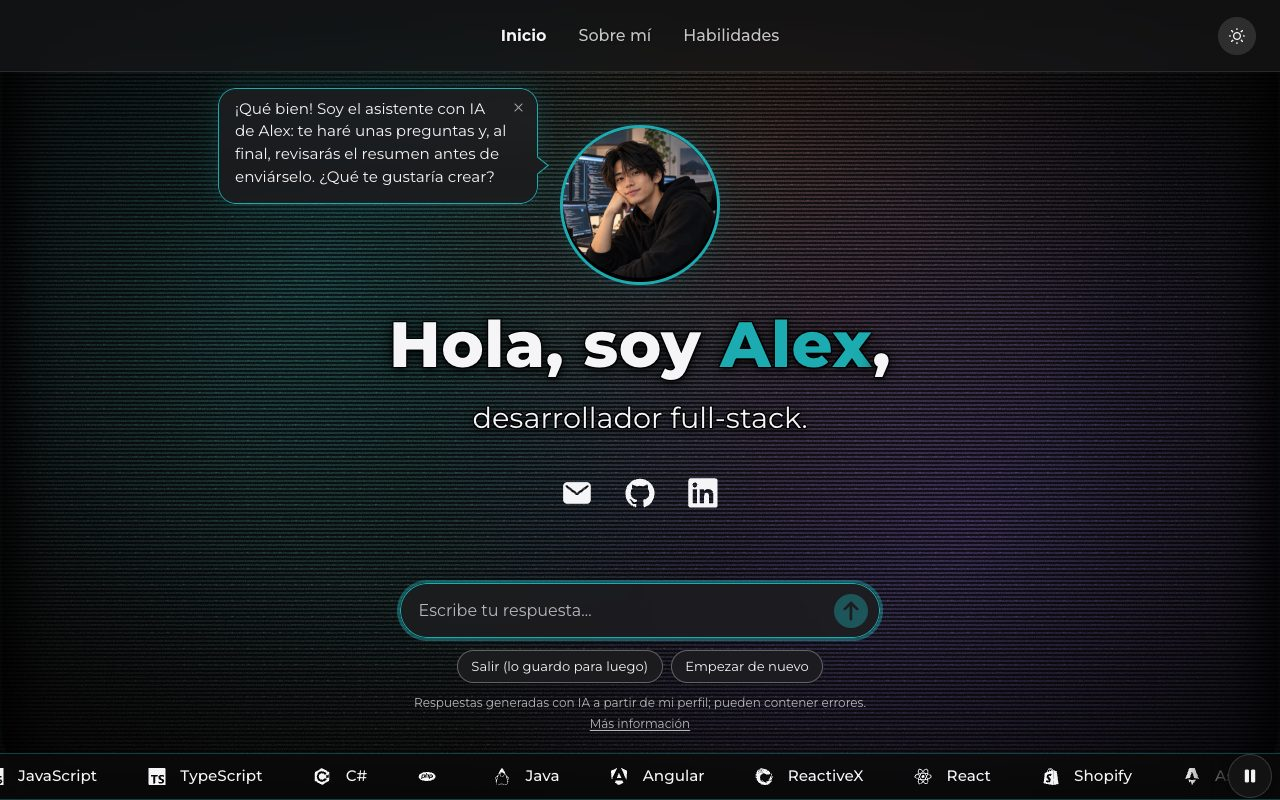
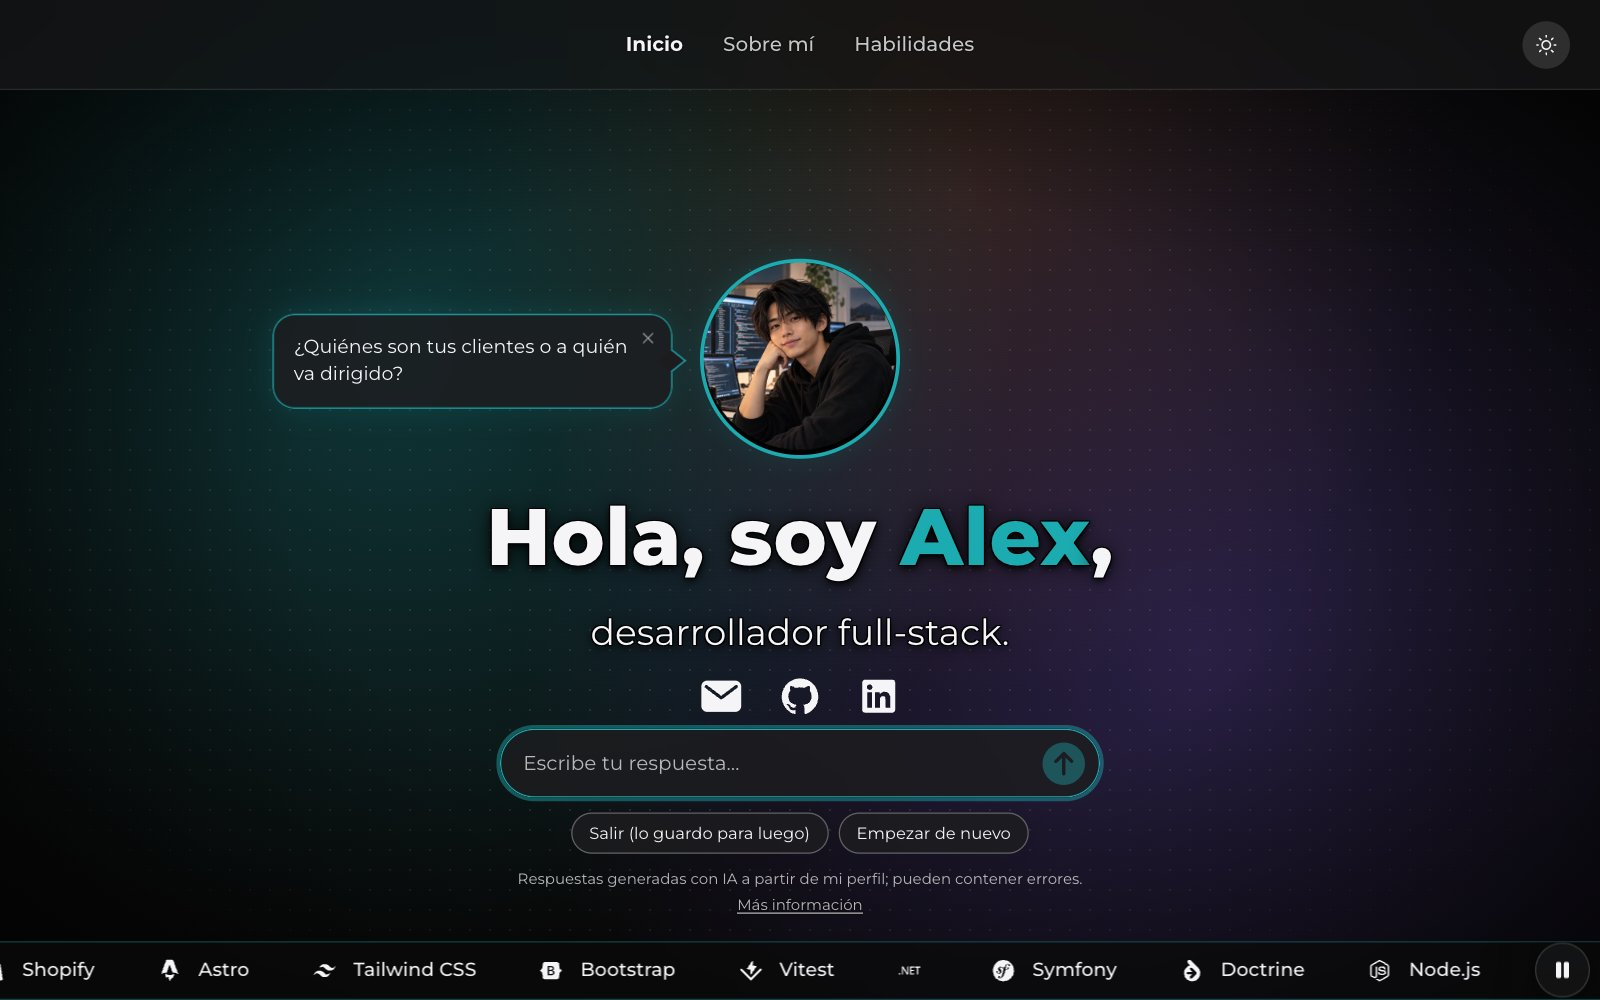
docs: guía actualizada y capturas nuevas

diff --git a/README.md b/README.md
@@ -45,13 +45,13 @@ Así se ve con la foto de ejemplo y sin ilustración propia (fondo degradado, si
 
 ## Qué incluye
 
-- **Inicio con animación propia (opcional):** tu ilustración fotograma a fotograma, con efectos de televisor antiguo. Sin ilustración, se muestra un fondo degradado.
+- **Inicio con animación propia (opcional):** tu ilustración fotograma a fotograma. Sin ilustración, se ve el fondo de luces de GlassMarshmallow.
 - **Chat de preguntas rápidas:** los visitantes preguntan («¿Cuál es tu experiencia?», «¿Qué tecnologías usas?»…) y la IA responde en tu nombre, en bocadillos de cómic, palabra a palabra según genera la respuesta.
 - **Formulario inteligente («Quiero un proyecto»):** un asistente con IA hace las preguntas que haría una consultora, distintas según el tipo de proyecto. Al final, el visitante revisa un resumen y te lo envía por Telegram.
 - **Habilidades** en un acordeón con logos de tecnologías, y una franja animada con los logos.
 - **Modo claro y oscuro**, adaptado a móvil.
 - **Accesibilidad WCAG 2.2 AA:** teclado, lectores de pantalla, contraste y «reducir movimiento».
-- **Páginas de privacidad y aviso legal**, y una ventana de **información sobre la IA** (transparencia).
+- **Páginas de privacidad y aviso legal**, y una página de **información sobre la IA** (transparencia).
 
 ---
 
@@ -202,7 +202,7 @@ Algunos servicios y su dirección (`BaseUrl`). El nombre del modelo lo encuentra
 
 - **Nunca subas tu clave a git** ni la pongas en `appsettings.json`: quien la tenga puede gastar a tu cargo. Usa `api/appsettings.Local.json` en local y el `.env` en el servidor.
 - Pon un **límite de gasto** en el panel del servicio. La API ya limita el uso por visitante y tiene un tope diario (`IA:LimiteDiario`, 600 llamadas al día por defecto).
-- **Cambia dos textos de la web**, porque dicen que la IA funciona en tu servidor: la ventana «Información sobre la IA» (`src/app/shared/components/ai-info-dialog/ai-info-dialog.html`) y la política de privacidad (`src/app/features/legal/pages/privacy/privacy.html`). Están marcados con un comentario. Di qué servicio usas y enlaza su política de privacidad.
+- **Cambia dos textos de la web**, porque dicen que la IA funciona en tu servidor: la página «Información sobre la IA» (`src/app/features/legal/pages/ai-info/ai-info.html`) y la política de privacidad (`src/app/features/legal/pages/privacy/privacy.html`). Están marcados con un comentario. Di qué servicio usas y enlaza su política de privacidad.
 - Elige un modelo **sin «razonamiento»** (los que «piensan» antes de responder, como `o1` o `qwen3` a través de este tipo de servicios): tardan más y pueden quedarse sin espacio para la respuesta. Si quieres usar `qwen3`, hazlo con la opción A (Ollama), que desactiva ese razonamiento.
 
 ---
@@ -217,7 +217,9 @@ Algunos servicios y su dirección (`BaseUrl`). El nombre del modelo lo encuentra
 | **Nombre, correo y enlaces que usa la IA** | `api/appsettings.json` → `"Perfil"` |
 | **Tus habilidades y sus logos** | `src/app/core/data/skills.data.ts` (cada logo es un icono de GlassMarshmallow por su nombre, por ejemplo `'angular'`; la lista, en la página Iconos de GlassMarshmallow, categoría Brand) |
 | **La animación del inicio** | `src/app/core/data/hero.data.ts` (ver abajo) |
+| **Las respuestas de los botones de preguntas rápidas** (salen al instante, sin IA) | `api/respuestas-rapidas.json` |
 | **Las preguntas del formulario inteligente** | `api/IntakePlan.cs` |
+| **Tu dominio, la descripción y la imagen para Google y las redes** | `src/app/core/data/site.data.ts`, `src/index.html`, `public/robots.txt`, `public/sitemap.xml` (busca «tu-dominio.com») y `public/assets/og-image.jpg` (1200 × 630 px) |
 | **Las reglas de la IA** | `api/Prompts.cs` |
 | **Privacidad y aviso legal** | `src/app/features/legal/pages/` |
 
@@ -250,7 +252,7 @@ Opciones de `hero.data.ts`:
 |---|---|
 | `frameDurationMs` | Cuánto dura cada fotograma (180 ms queda natural). |
 | `loopLayer` | Una zona que se mueve **siempre**, aunque el personaje se quede quieto (por ejemplo, el humo de una taza). Recorta esa zona de varios fotogramas y funde una forma con la siguiente. |
-| `fixedPatch` | Una zona que se pinta siempre igual, sacada de un fotograma: arregla elementos que «tiemblan» entre poses. |
+| `fixedPatches` | Zonas que se pintan siempre igual, sacadas de un fotograma: arreglan elementos que «tiemblan» entre poses (una silla, una lámpara…). |
 | `lighting` | Tiñe el dibujo con un color ambiente y luces (una lámpara, una pantalla…). |
 | `face` | Dónde está la cara (el personaje mira a la izquierda): en ordenador, el bocadillo del chat sale delante de ella con la cola apuntándole. |
 | `head` | Dónde está la cabeza: si delante de la cara no cabe el bocadillo, sale detrás de la cabeza. |
@@ -283,15 +285,15 @@ Las reglas hacen que la IA hable en primera persona, sea breve, no invente nada 
 ### Formulario inteligente (`/api/intake` y `/api/contact`)
 
 1. El visitante pulsa **«Quiero un proyecto»**. Un asistente con IA se presenta y le pregunta qué quiere crear.
-2. Es **el servidor, no la IA, quien decide qué preguntar** (`api/IntakePlan.cs`):
-   - Primero lo común: negocio, qué necesita, a quién va dirigido, cómo lo gestiona ahora y qué quiere conseguir.
-   - Después, las preguntas propias de cada tipo de proyecto: tienda online (productos, cobros, envíos, stock), reservas (servicios, horarios, recordatorios…), web informativa, panel de gestión, automatización o mejora de una web.
-   - Al final: marca, textos y fotos, conexiones con lo que ya usa, referencias, y nombre y correo.
+2. Es **el servidor, no la IA, quien hace las preguntas** (`api/IntakePlan.cs`), en orden y al instante:
+   - Primero lo común: qué quiere crear, a qué se dedica, a quién va dirigido, cómo lo gestiona ahora y qué quiere conseguir.
+   - Con la primera respuesta, **la IA decide una sola vez el tipo de proyecto** (tienda online, reservas, web informativa, portfolio, panel de gestión, automatización o mejora de una web) y qué preguntas sobran. Después van las propias de ese tipo.
+   - Al final: marca, textos y fotos, conexiones con lo que ya usa, referencias, nombre, correo, teléfono y empresa (opcionales) y una nota del formulario.
 
-   La IA detecta el tipo de proyecto, se salta lo que no aplica y formula cada pregunta con naturalidad. También puede proponer una oportunidad («¿te interesaría vender por internet?»). Que el servidor controle el guion evita que los modelos pequeños repitan preguntas o terminen antes de tiempo.
+   Si el visitante pregunta algo a mitad, la IA le contesta en una o dos frases, se apunta su pregunta en el resumen y se repite la pregunta pendiente. Sin IA conectada el formulario también funciona: hace todas las preguntas de una web informativa.
 3. La IA responde en **JSON con un esquema fijo**, y el servidor lo valida.
 4. La conversación se guarda **en el navegador** (`localStorage`, 7 días) para poder retomarla si se cierra la página.
-5. Al terminar, el visitante revisa un **resumen**, acepta la privacidad y pulsa **«Enviar»**. La API la valida, **guarda una copia** y **te la envía por Telegram** con la conversación adjunta.
+5. Al terminar, el visitante revisa un **resumen por bloques**, puede cambiar cualquier dato con **«Editar»**, acepta la privacidad y pulsa **«Enviar»**. La API la valida, **guarda una copia** y **te la envía por Telegram** con la conversación adjunta.
 6. Las copias guardadas **se borran solas a los 365 días** (`Solicitudes:DiasConservacion`).
 
 ### Medidas de seguridad

diff --git a/README.en.md b/README.en.md
@@ -47,13 +47,13 @@ This is how it looks with the example photo and no illustration of your own (gra
 
 ## Features
 
-- **Home with your own animation (optional):** your illustration frame by frame, with retro TV effects. Without an illustration, a gradient background is shown.
+- **Home with your own animation (optional):** your illustration frame by frame. Without an illustration, you see the GlassMarshmallow lights background.
 - **Quick-questions chat:** visitors ask («What's your experience?», «Which technologies do you use?»…) and the AI answers on your behalf in comic speech bubbles, word by word as it generates the answer.
 - **Smart form («Quiero un proyecto» / "I want a project"):** an AI assistant asks the questions a consultancy would ask, different for each type of project. At the end, the visitor reviews a summary and sends it to you on Telegram.
 - **Skills** in an accordion with technology logos, plus an animated logo strip.
 - **Light and dark mode**, mobile-friendly.
 - **WCAG 2.2 AA accessibility:** keyboard, screen readers, contrast and "reduce motion".
-- **Privacy and legal notice pages**, and an **AI information** window (transparency).
+- **Privacy and legal notice pages**, and an **AI information** page (transparency).
 
 ---
 
@@ -204,7 +204,7 @@ Some services and their address (`BaseUrl`). You'll find the model names in each
 
 - **Never commit your key** or put it in `appsettings.json`: anyone who has it can spend on your account. Use `api/appsettings.Local.json` locally and `.env` on the server.
 - Set a **spending limit** in the service's dashboard. The API already limits use per visitor and has a daily cap (`IA:LimiteDiario`, 600 calls a day by default).
-- **Change two texts on the website**, because they say the AI runs on your own server: the "Información sobre la IA" window (`src/app/shared/components/ai-info-dialog/ai-info-dialog.html`) and the privacy policy (`src/app/features/legal/pages/privacy/privacy.html`). They're marked with a comment. Say which service you use and link to its privacy policy.
+- **Change two texts on the website**, because they say the AI runs on your own server: the "Información sobre la IA" page (`src/app/features/legal/pages/ai-info/ai-info.html`) and the privacy policy (`src/app/features/legal/pages/privacy/privacy.html`). They're marked with a comment. Say which service you use and link to its privacy policy.
 - Pick a model **without "reasoning"** (models that "think" before answering, such as `o1`, or `qwen3` through this kind of service): they're slower and can run out of room for the answer. If you want `qwen3`, use option A (Ollama), which turns that reasoning off.
 
 ---
@@ -219,7 +219,9 @@ Some services and their address (`BaseUrl`). You'll find the model names in each
 | **Name, email and links used by the AI** | `api/appsettings.json` → `"Perfil"` |
 | **Your skills and their logos** | `src/app/core/data/skills.data.ts` (each logo is a GlassMarshmallow icon by name, for example `'angular'`; the list is on the GlassMarshmallow Icons page, Brand category) |
 | **The home animation** | `src/app/core/data/hero.data.ts` (see below) |
+| **The answers to the quick-question buttons** (instant, no AI) | `api/respuestas-rapidas.json` |
 | **The smart-form questions** | `api/IntakePlan.cs` |
+| **Your domain, description and image for Google and social networks** | `src/app/core/data/site.data.ts`, `src/index.html`, `public/robots.txt`, `public/sitemap.xml` (search for "tu-dominio.com") and `public/assets/og-image.jpg` (1200 × 630 px) |
 | **The AI rules** | `api/Prompts.cs` |
 | **Privacy and legal notice** | `src/app/features/legal/pages/` |
 
@@ -252,7 +254,7 @@ The animation is **optional**. It works with separate frames, like a cartoon:
 |---|---|
 | `frameDurationMs` | How long each frame lasts (180 ms looks natural). |
 | `loopLayer` | An area that **always** moves, even when the character stands still (for example, steam from a cup). It cuts that area from several frames and blends one shape into the next. |
-| `fixedPatch` | An area always painted the same, taken from one frame: fixes elements that "shake" between poses. |
+| `fixedPatches` | Areas always painted the same, taken from one frame: they fix elements that "shake" between poses (a chair, a lamp…). |
 | `lighting` | Tints the drawing with an ambient color and lights (a lamp, a screen…). |
 | `face` | Where the face is (the character looks to the left): on desktop, the chat bubble appears in front of it, with its tail pointing at it. |
 | `head` | Where the head is: if the bubble doesn't fit in front of the face, it appears behind the head. |
@@ -285,15 +287,15 @@ The rules make the AI speak in the first person, keep it short, never make up an
 ### Smart form (`/api/intake` and `/api/contact`)
 
 1. The visitor clicks **«Quiero un proyecto»**. An AI assistant introduces itself and asks what they want to build.
-2. **The server, not the AI, decides what to ask** (`api/IntakePlan.cs`):
-   - First the common questions: business, what they need, target audience, how they handle it today and what they want to achieve.
-   - Then the questions for each project type: online shop (products, payments, shipping, stock), bookings (services, hours, reminders…), informational website, admin panel, automation or improving an existing site.
-   - Finally: branding, texts and photos, integrations with tools they already use, references, then name and email.
+2. **The server, not the AI, asks the questions** (`api/IntakePlan.cs`), in order and instantly:
+   - First the common ones: what they want to build, what they do, who it's for, how they handle it today and what they want to achieve.
+   - With the first answer, **the AI decides once which type of project it is** (online shop, bookings, informational website, portfolio, admin panel, automation or improving an existing site) and which questions to skip. Then come the questions for that type.
+   - Finally: branding, texts and photos, integrations with tools they already use, references, name, email, phone and company (optional) and a rating of the form.
 
-   The AI detects the project type, skips what doesn't apply and phrases each question naturally. It may also suggest an opportunity ("would you like to sell online?"). Letting the server drive the script stops small models from repeating questions or finishing too early.
+   If the visitor asks something halfway through, the AI answers in one or two sentences, their question is noted in the summary and the pending question is repeated. Without an AI connected the form still works: it asks all the questions for an informational website.
 3. The AI replies in **JSON with a fixed schema**, and the server validates it.
 4. The conversation is saved **in the browser** (`localStorage`, 7 days), so it can be resumed if the page is closed.
-5. At the end, the visitor reviews a **summary**, accepts the privacy terms and clicks **«Enviar»** (Send). The API validates it, **saves a copy** and **sends it to you on Telegram** with the conversation attached.
+5. At the end, the visitor reviews a **summary in blocks**, can change any detail with **«Editar»** (Edit), accepts the privacy terms and clicks **«Enviar»** (Send). The API validates it, **saves a copy** and **sends it to you on Telegram** with the conversation attached.
 6. Saved copies are **deleted automatically after 365 days** (`Solicitudes:DiasConservacion`).
 
 ### Security measures
